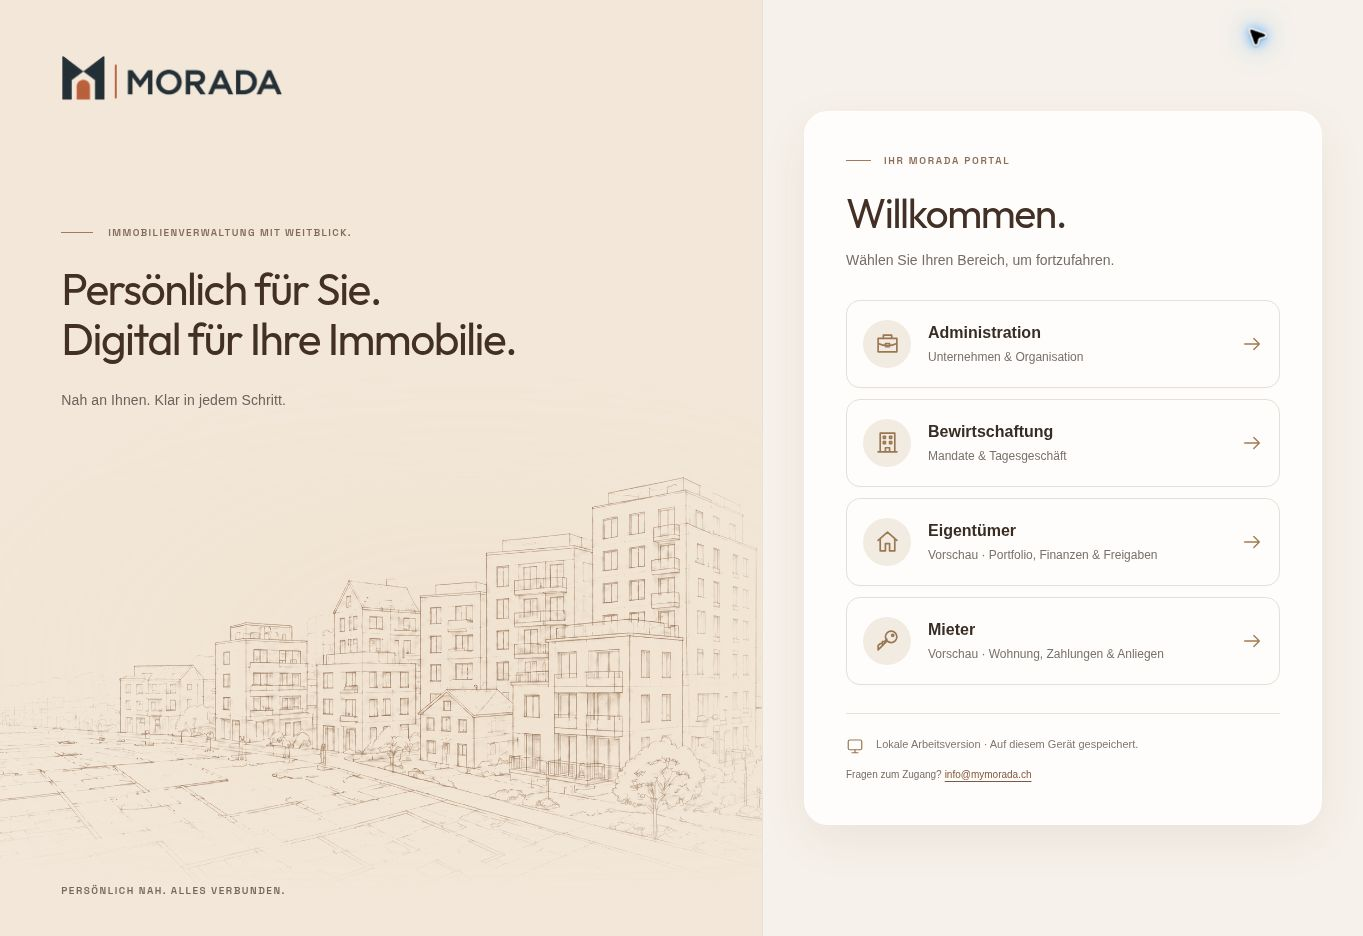
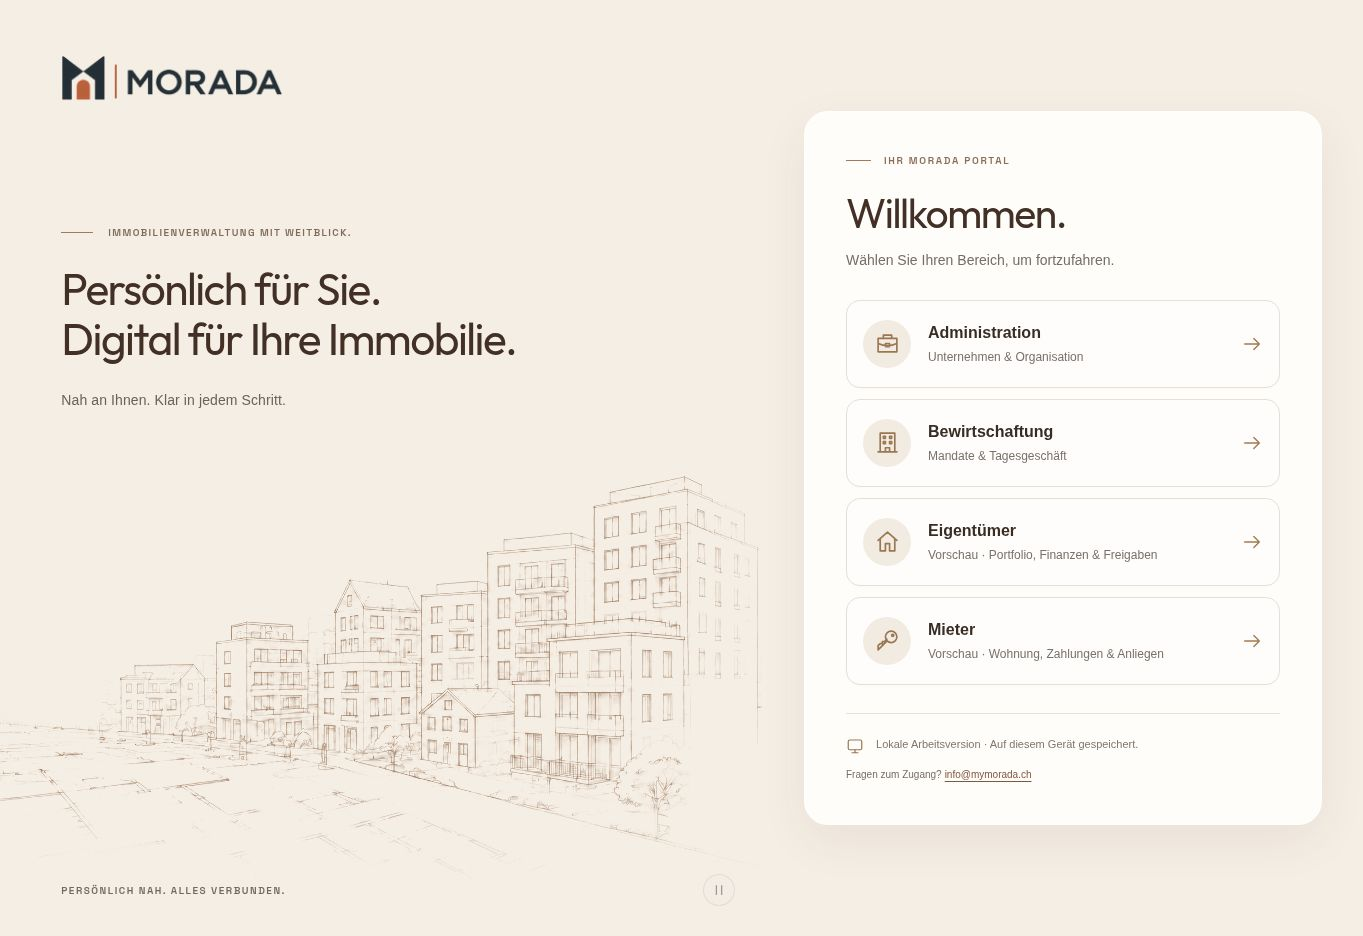
Unify portal entry background in lighter warm beige

Changed region(s): [[0.0308, 0.4957, 0.5547, 0.8985], [0.8936, 0.031, 0.9552, 0.062], [0.0924, 0.8365, 0.1541, 0.8675]]

diff --git a/assets/portal-entry-scene.css b/assets/portal-entry-scene.css
@@ -1,6 +1,7 @@
 /* Reveal the fine, warm pencil marks of the original artwork itself. */
-#moradaEntry .entry-art{background:#f2e7d8}
-#moradaEntry .entry-scene{--entry-draw-pace:1.3;aspect-ratio:1620/971;filter:none;background:radial-gradient(ellipse at 60% 58%,#f4e4cb42 0%,#f4e4cb00 72%)}
+#moradaEntry{--entry-background:#f5eee4;background:var(--entry-background)}
+#moradaEntry .entry-art{background:var(--entry-background);border-right:0;border-bottom:0}
+#moradaEntry .entry-scene{--entry-draw-pace:1.3;aspect-ratio:1620/971;filter:none;background:none}
 #moradaEntry .entry-city-camera{position:absolute;inset:0}
 #moradaEntry .entry-city-image{display:block;width:100%;height:100%;object-fit:contain}
 #moradaEntry .entry-city-reveal{position:absolute;inset:0;width:100%;height:100%;visibility:hidden;pointer-events:none}

diff --git a/assets/portal-entry-card.css b/assets/portal-entry-card.css
@@ -1,5 +1,5 @@
 /* Workspace selection: the existing city scene and its animation stay intact. */
-#moradaEntry .entry-panel{padding:40px clamp(24px,3vw,54px);background:#f6f1ea}
+#moradaEntry .entry-panel{padding:40px clamp(24px,3vw,54px);background:var(--entry-background)}
 #moradaEntry .entry-card{width:100%;max-width:540px;padding:clamp(28px,3vw,44px);border:1px solid #ffffffb3;border-radius:24px;background:#fffdfbf5;box-shadow:0 16px 48px #4e382412}
 #moradaEntry .entry-welcome-label{font-size:10px;letter-spacing:.17em;margin-bottom:22px}
 #moradaEntry .entry-card h2{font-size:clamp(35px,3vw,46px);line-height:1.15;margin-bottom:12px}

diff --git a/docs/entry-architecture-animation.md b/docs/entry-architecture-animation.md
@@ -1,16 +1,16 @@
 # Architectural entry animation
 
-The entry scene reveals the fine pencil marks of the existing illustration itself. Its raster source is unchanged. SVG paths are invisible reveal masks, not replacement building outlines. A colour matrix separates warm sepia ink from the paper; a very small blur softens the raster edges. This avoids the broad beige bands that would otherwise follow the masks. The full left-hand artwork panel uses warm beige #f2e7d8, with a faint, stationary paper tint beneath the drawing.
+The entry scene reveals the fine pencil marks of the existing illustration itself. Its raster source is unchanged. SVG paths are invisible reveal masks, not replacement building outlines. A colour matrix separates warm sepia ink from the paper; a very small blur softens the raster edges. This avoids the broad beige bands that would otherwise follow the masks. Both entry columns share the lighter warm beige #f5eee4 through one background token. The former column borders and local paper tint are removed, so the background runs uninterrupted behind the left-only drawing and the right-hand selection card.
 
 The street perspective, building edges, windows, balconies and vegetation appear in overlapping, softly eased passes. The remaining fine background details settle in between 6.76 and 8.84 seconds. A shared CSS pace factor stretches every delay and duration equally by 30%, preserving the approved drawing sequence. The same filtered artwork remains on screen throughout: there is no handoff to a different image, crossfade between illustrations, camera movement or continuous loop. After completion the animations are removed and the pause control disappears.
 
-The animation refinement retained the right-hand form, logo, copy, original illustration bytes and responsive layout. The subsequent [entry card refinement](entry-card-refinement.md) changes only the workspace selection card and sidebar colour; the animation assets and source illustration remain unchanged. The compact 100 px mobile header is retained. There is no new image download, video, framework or JavaScript frame loop. The SVG reuses the image already embedded in the page.
+The animation refinement retained the right-hand form, logo, copy, original illustration bytes and responsive layout. The subsequent [entry card refinement](entry-card-refinement.md) changes only the workspace selection card and sidebar colour; the drawing sequence and source illustration remain unchanged. The compact 100 px mobile header is retained. There is no new image download, video, framework or JavaScript frame loop. The SVG reuses the image already embedded in the page.
 
 The animation pauses when the tab or entry page is hidden or the artwork leaves the viewport. Its keyboard-accessible pause/resume control uses the existing DE/EN/FR catalogue. Reduced-motion preferences show the finished scene. Returning from the portal does not replay the reveal. Without JavaScript the original static illustration remains visible.
 
 Validation:
 
-- Build passes: 8200 messages; 170 script/assets checked. The four entry-animation lifecycle tests also pass after the beige/pacing refinement. Desktop computed styles confirm #f2e7d8 and a 6.76 s delay plus 2.08 s finish (8.84 s total).
+- Build passes: 8200 messages; 170 script/assets checked. The four entry-animation lifecycle tests also pass after the beige/pacing refinement. The animation retains a 6.76 s delay plus 2.08 s finish (8.84 s total).
 - 16/16 entry-animation, profile and language integration tests pass, including matching source artwork, completion, decode timing, pause/resume, visibility, reduced motion, language changes and disposal.
 - The original sequence was inspected locally at 0.9, 2.4, 4.2 and 7.2 seconds before the uniform pace adjustment. Fine original lines remain visible throughout; no coarse substitute contours or broad tinted mask bands.
 - A real pause held the same computed stroke offset across observations. Resume, workspace entry and logout work. The completed scene reports no camera transform, a fully revealed mask and no running animation.

diff --git a/docs/entry-card-refinement.md b/docs/entry-card-refinement.md
@@ -2,11 +2,13 @@
 
 The entry page now uses the supplied reference for its right-hand card: a short welcome heading, four vertically stacked workspace actions, warm circular line icons and a subtle arrow on each row. Selecting a row calls the existing workspace entry handler directly; native submit buttons retain Enter/Space keyboard behaviour. The former radio selection and separate open button are replaced by these four actions. No access rights or workspace data are changed.
 
-The existing city artwork, its bytes, animation CSS/JavaScript, warm beige background and 8.84-second reveal are untouched. The reference image is not bundled or used as artwork. The portal sidebar is a flat dark warm brown, `#503c2e`, without a gradient.
+The existing city artwork, its bytes, animation JavaScript and 8.84-second reveal are untouched. Both columns now share the lighter warm beige `#f5eee4`, with no dividing line or separate paper tint. The illustration remains confined to the left column. The reference image is not bundled or used as artwork. The portal sidebar is a flat dark warm brown, `#503c2e`, without a gradient.
 
 The new heading, introduction, short role descriptions and local-workspace notice use the existing DE/EN/FR catalogue. Owner and tenant areas remain clearly marked as previews. The reference's secure-account claim is not copied: the current app stores local workspace data on the device and does not provide personal authenticated accounts. The contact link remains available.
 
 Validation:
+
+- Background-only follow-up: the build passes, and desktop/mobile browser measurements confirm `rgb(245, 238, 228)` on the root and both columns, no dividing borders, and a transparent scene surface. Artwork, timing, JavaScript and layout are unchanged.
 
 - Production build passes: 8205 messages; 171 scripts/assets checked.
 - 17/17 entry-animation, profile and language integration tests pass. The new native-button test opens all four workspaces in each of the three languages and verifies that portal records do not change. Existing coverage exercises 306 role/language routes and 285 forms.
